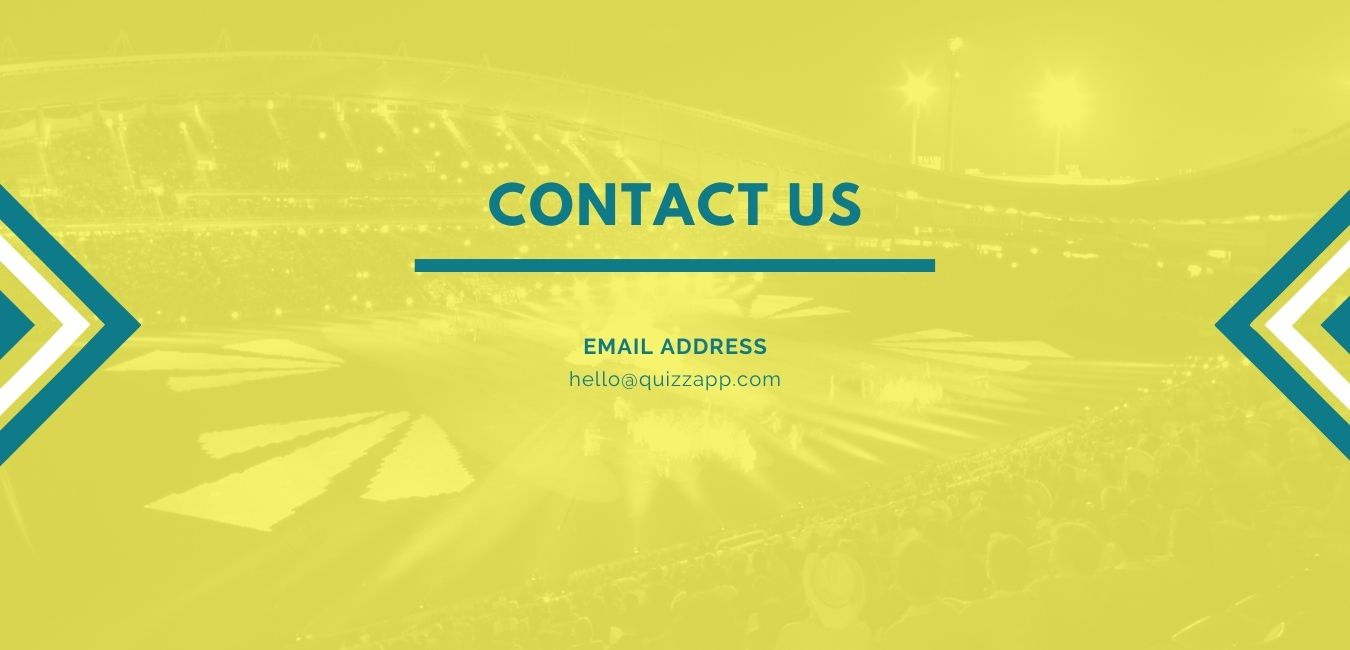
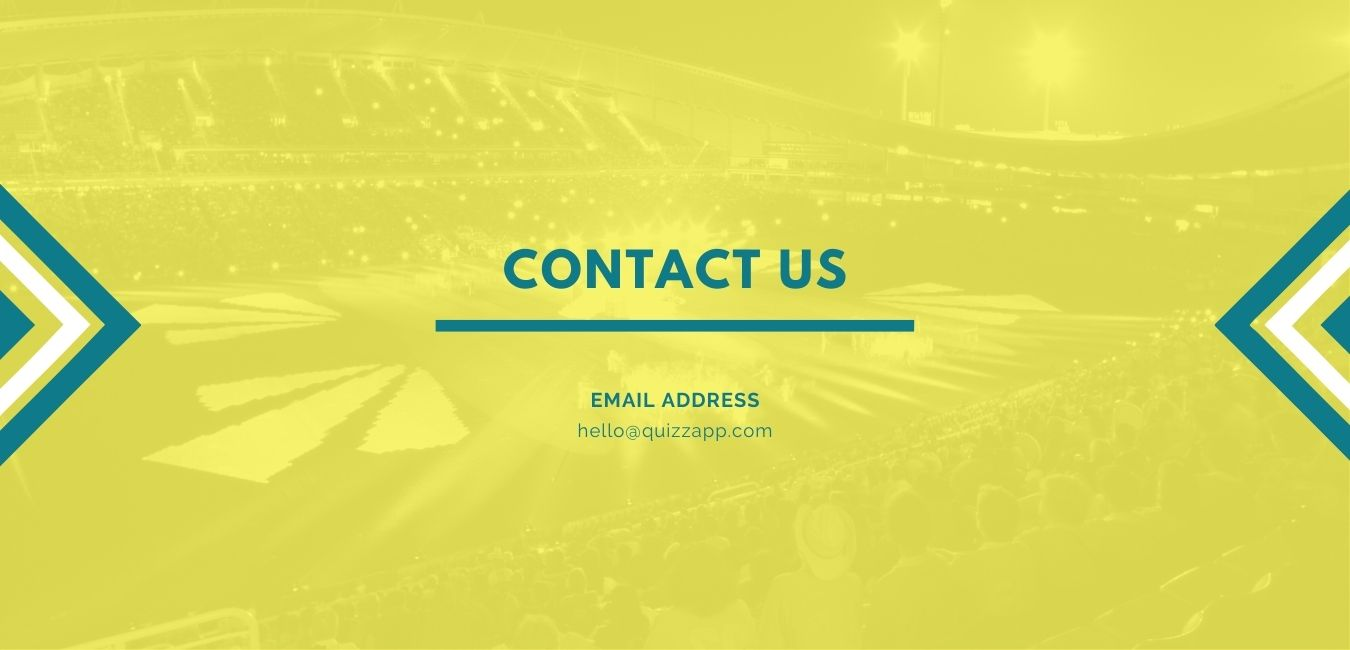
added footer to index view + modified nav bar

diff --git a/styles/nav.scss b/styles/nav.scss
@@ -1,44 +1,24 @@
-nav {
-  width: 100%;
-  height: 50px;
-  display: flex;
-  justify-content: space-between;
-  padding: 1.5rem;
+
+.nav-bar {
+  list-style-type: none;
+  margin: 0;
+  padding: 0;
+  overflow: hidden;
   background-color: #0f7a8a;
-  // background-color: red;
-  color: #fff529;
-
-  // app name links on the nav bar
-  .app-name {
-    width: 20%;
-    display: flex;
-    justify-content: flex-start;
-    align-items: center;
-    flex-direction: row;
-    padding: 0.2rem;
-    font-family:  'Carter One', cursive;
-    font-size: 20px;
+  li {
+    float: left;
+    a {
+      display: block;
+      color: #fff529;
+      text-align: center;
+      padding: 14px 16px;
+      text-decoration: none;
+    }
+    a:hover {
+      background-color: white;
+    }
   }
-
-  // login & register links on the nav bar
-  .nav-links {
-    width: 25%;
-    display: flex;
-    justify-content: flex-end;
-    align-items: center;
-    flex-direction: row;
-    padding: 0.2rem;
-    font-size: 13px;
+  .active {
     font-weight: bold;
-
-    .login {
-      margin: 5px;
-
-    }
-    .register {
-      margin: 5px;
-
-    }
-
   }
 }

diff --git a/styles/footer.scss b/styles/footer.scss
@@ -1,0 +1,12 @@
+footer {
+  padding: 0.10rem;
+  height: 50%;
+  width: 100%;
+  text-align:center;
+  background-image: url(/images/quizzfooter.jpg);
+  background-position: center;
+  -webkit-background-size: cover;
+  -moz-background-size: cover;
+  background-size: cover;
+  -o-background-size: cover;
+}

diff --git a/styles/index_main.scss b/styles/index_main.scss
@@ -1,6 +1,8 @@
 .grid-container {
+  margin-top: 2rem;
+  margin-bottom: 2rem;
   display: grid;
-  grid-gap: 50px 100px;
+  grid-gap: 50px 70px;
   grid-template-rows: 200px 200px 200px ;
   grid-template-columns: 200px 200px 200px;
   background-color: white;

diff --git a/styles/header.scss b/styles/header.scss
@@ -1,5 +1,6 @@
 
 header {
+  margin-bottom: 4rem;
   padding: 0.10rem;
   height: 51%;
   width: 100%;
